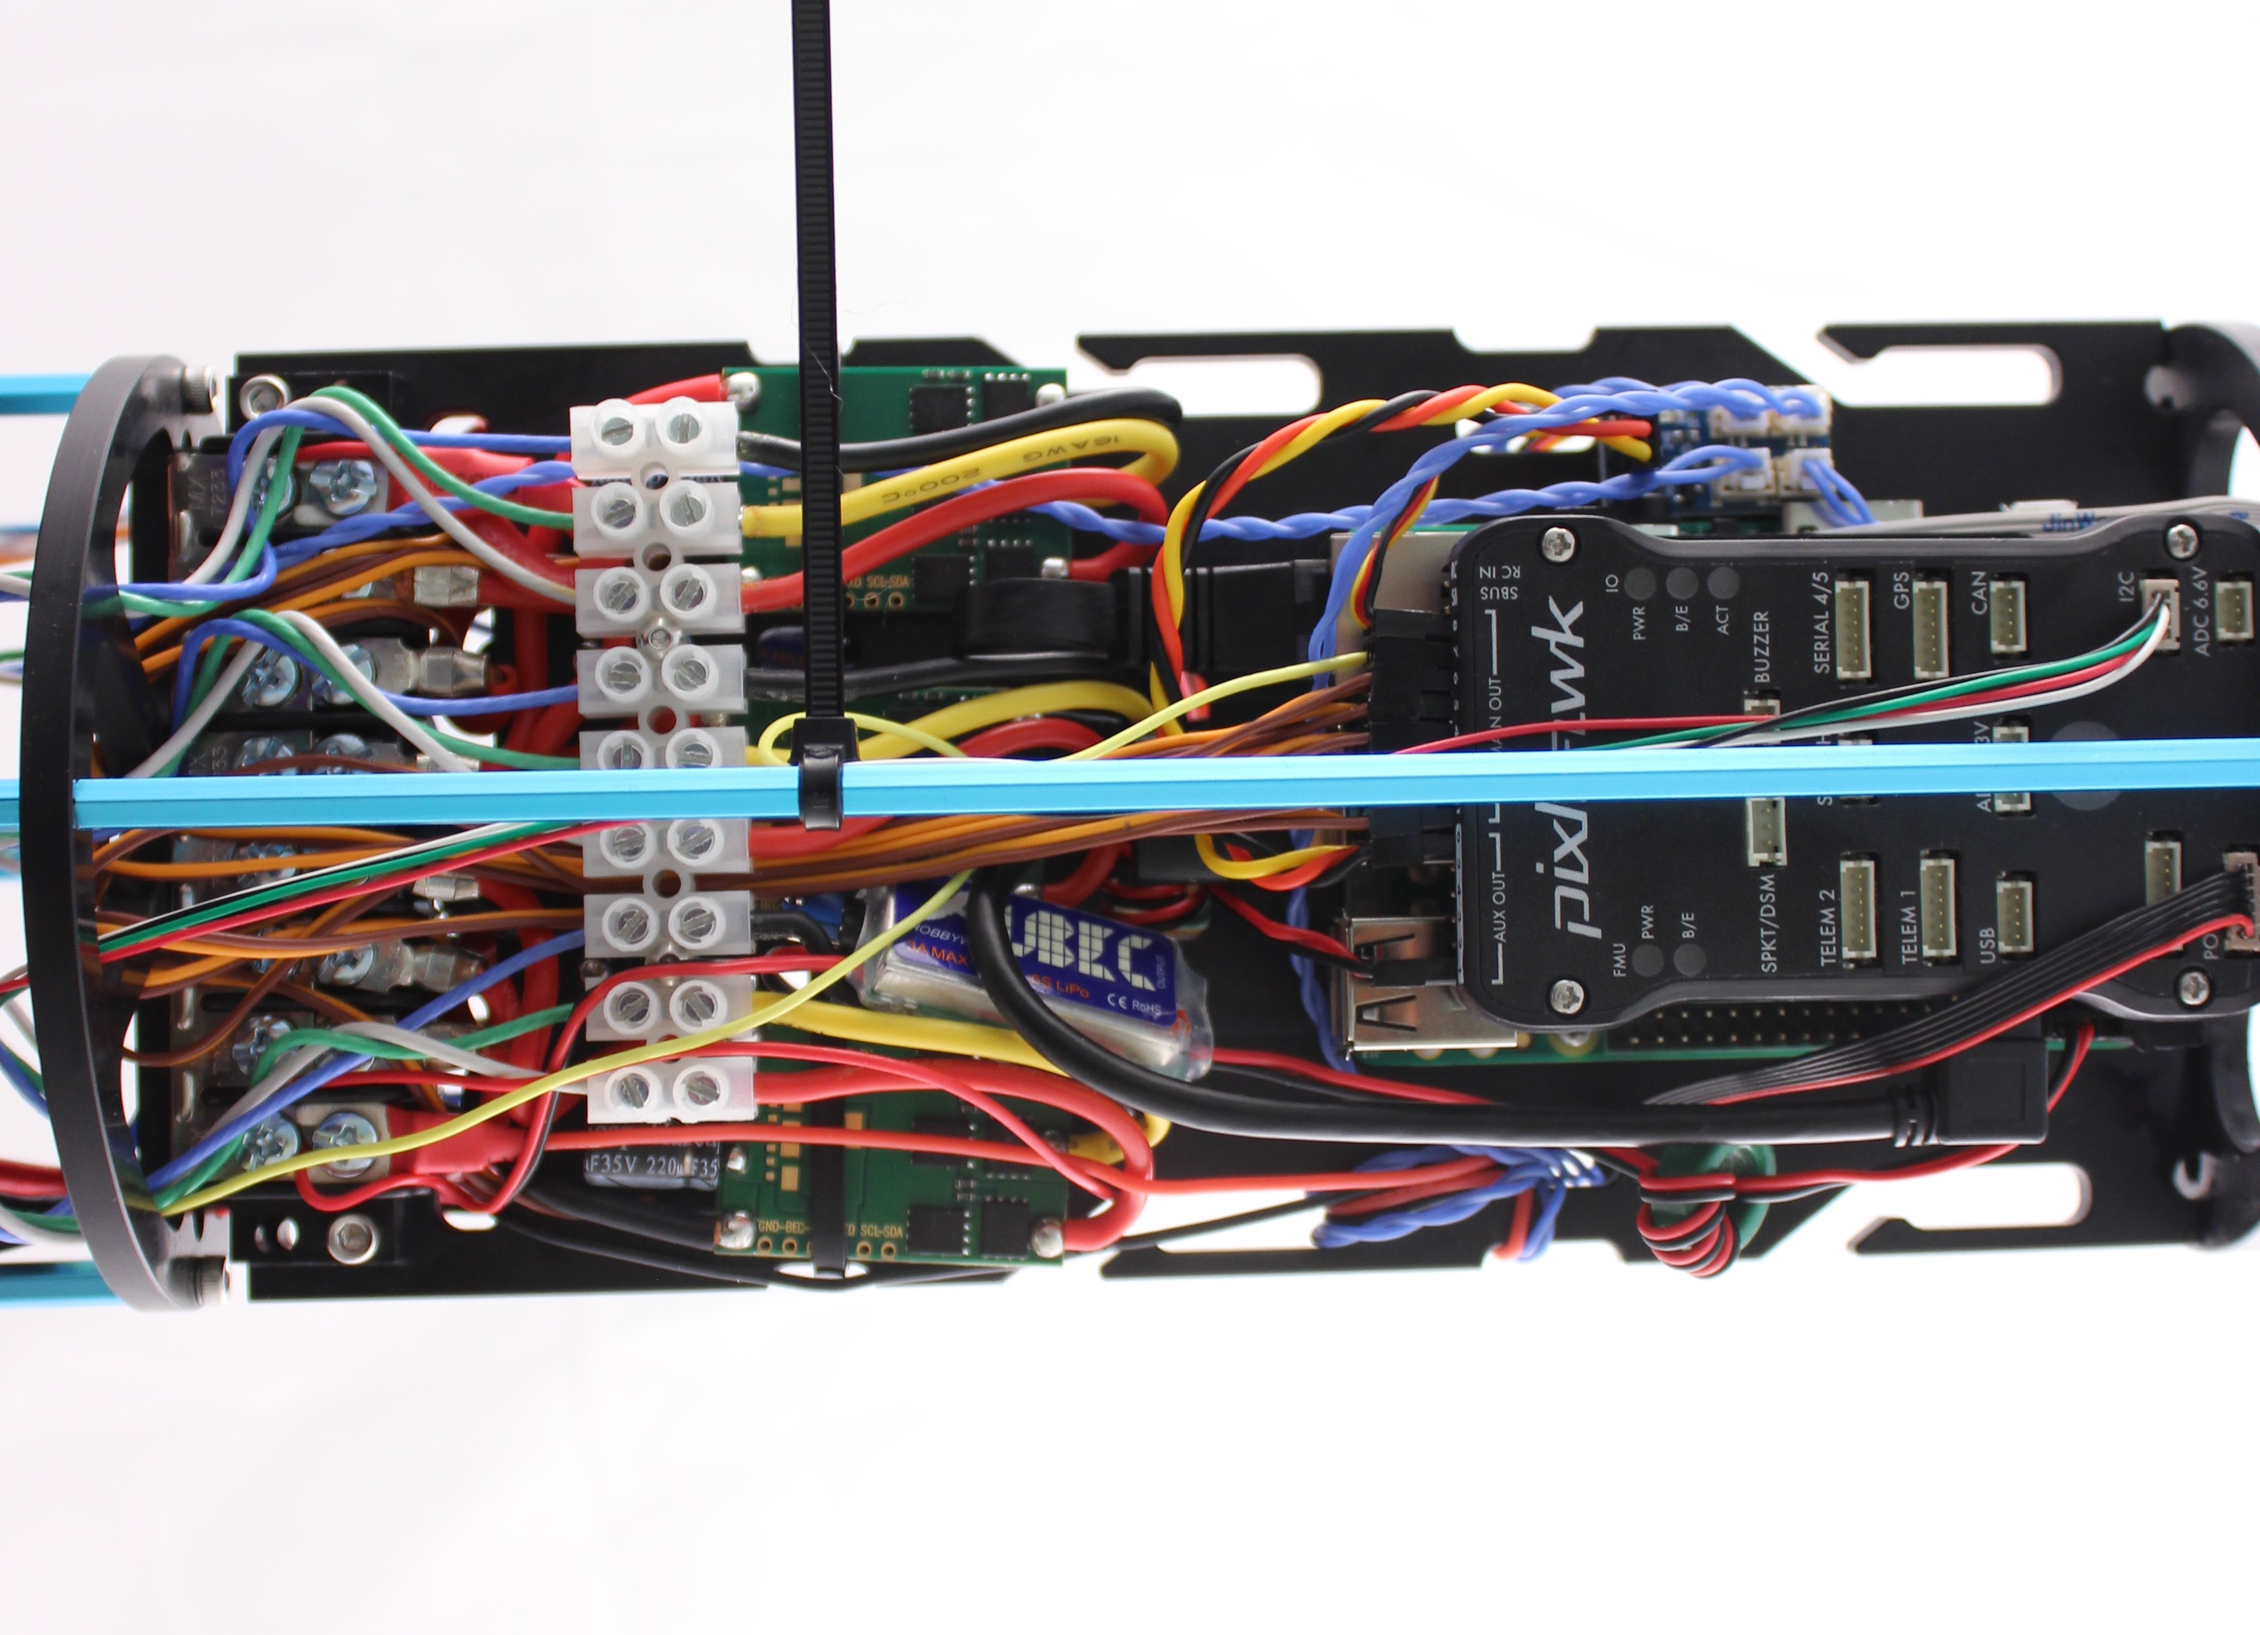
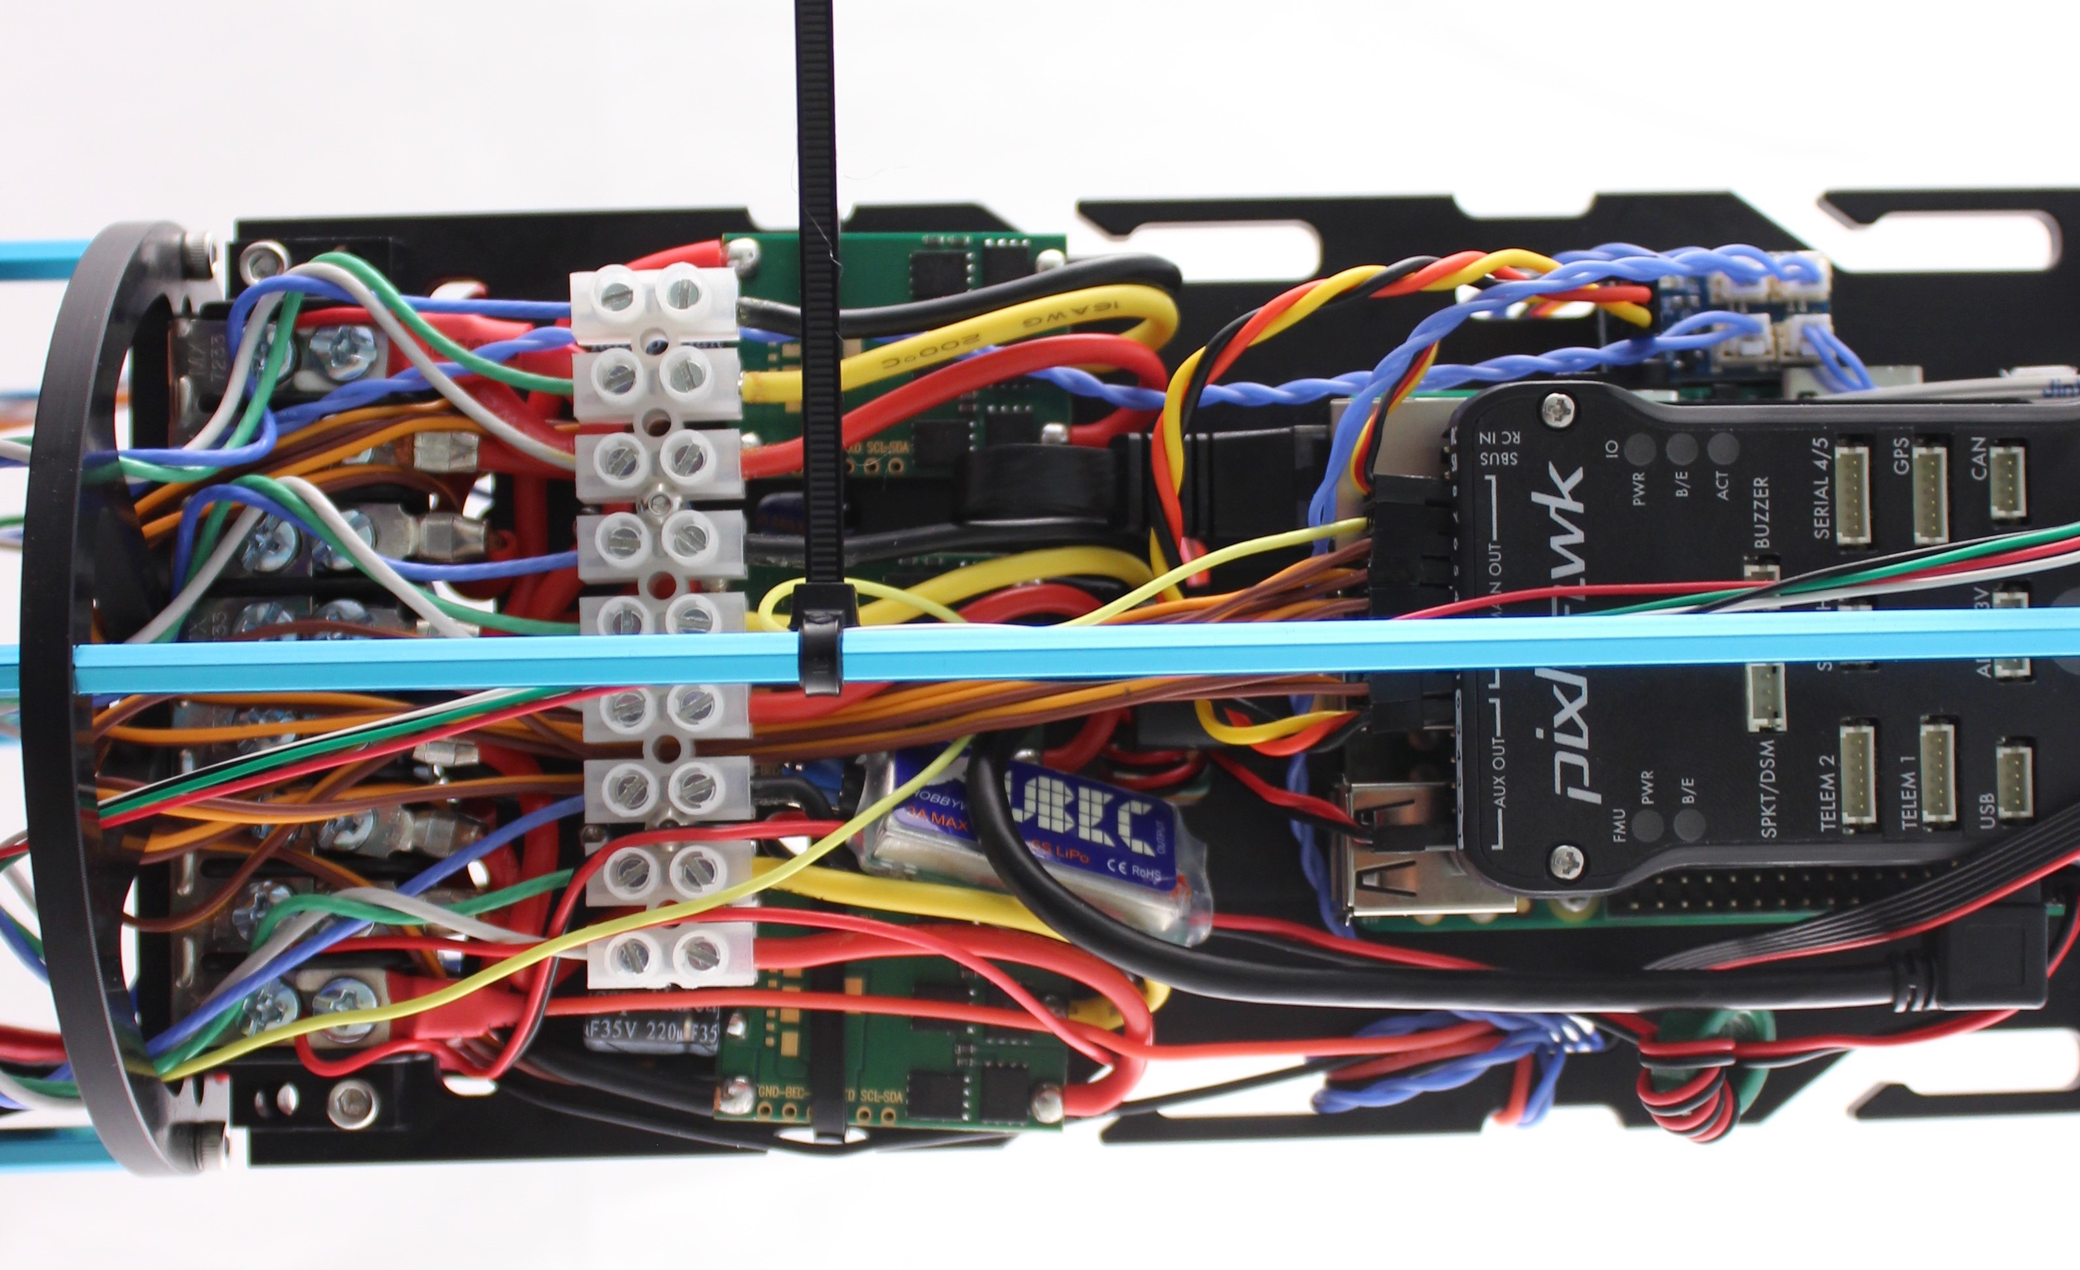
edited some pictures and text for lumen power wires

diff --git a/brov2/assembly.advanced.12.2.16.md b/brov2/assembly.advanced.12.2.16.md
@@ -364,9 +364,9 @@ To reinstall the Aluminum End Cap with 14 Holes you will need the following part
 
 5. Apply one drop of threadlocker to each of the M3x12 screws. Roll the screws around on a paper towel to evenly spread the threadlocker and to remove excess threadlocker.
 	
-6. Install Aluminum End Cap with 14 Holes with all Cable Penetrators and Blank Penetrators installed onto the O-Ring Flange (4" Series). Do not fully tighten any screws when first installing them; it may cause the O-ring to slip out of its groove. The end cap's orientation when installed should match the image below.
+6. Install Aluminum End Cap with 14 Holes with all Cable Penetrators and Blank Penetrators installed onto the O-Ring Flange (4" Series). Do not fully tighten any screws when first installing them; it may cause the O-ring to slip out of its groove. The end cap's orientation when installed should match the image below. Make sure that the clips are oriented correctly. One should be just right of the Thruster 3 penetrator, and the other should be just left of the Thruster 4 penetrator. 
 
-	[picture of the end cap installed that makes it clear where the clips should go]
+	<img src="/brov2/cad/end-cap-installed.png" class="img-responsive" style="max-width:900px" />
 
 ## Finishing the Battery Enclosure
 
@@ -456,13 +456,15 @@ To install the wires from the penetrators you will need the following parts and 
 
 1. Connect the battery power bullet connectors to bullet connectors on XT60 to bullet connector adapter. 
 
-	<img src="/brov2/cad/electronics-enclosure-power-connection-1.png" class="img-responsive" style="max-width:900px" />
+	<img src="/brov2/cad/electronics-enclosure-power-connection-11.png" class="img-responsive" style="max-width:900px" />
 
-2. Connect the Lumen power wires to the power terminal block. 
+2. Connect the Lumen power wire (red) to the Power Terminal Block with the other red wires. Use the rear screw terminal that is second from the bottom. To help keep the cable routing neat, bring the cable through the ESC wires and take out most of the slack.
 	
-	<img src="/brov2/cad/lumen-hot.png" class="img-responsive" style="max-width:900px" />
+	<img src="/brov2/cad/lumen-hot-1.png" class="img-responsive" style="max-width:900px" />
 
-	<img src="/brov2/cad/lumen-ground.png" class="img-responsive" style="max-width:900px" />
+3. Connect the Lumen ground wire (black) to the Power Terminal Block with the other black wires. Use the rear screw terminal that is second from the bottom. To help keep the cable routing neat, bring the cable through the ESC wires and take out most of the slack.
+	
+	<img src="/brov2/cad/lumen-ground-12.png" class="img-responsive" style="max-width:900px" />
 
 ## Installing the Signal Wires from the Penetrators
 	
@@ -499,7 +501,7 @@ To route the cables in the Electronics Enclosure so that they will not snag on t
 
 1. On the starboard side (PixHawk side) collect the Bar30 wires and the Lumen signal wire and zip tie them to the long hex standoff slightly forward of the Motor Terminal Block using one zip tie. Make sure that the locking head of the zip tie and the wires are oriented to the inside of the long hex standoff.
 
-	<img src="/brov2/cad/zip-tie-starboard.png" class="img-responsive" style="max-width:900px" />
+	<img src="/brov2/cad/zip-tie-starboard-1.png" class="img-responsive" style="max-width:900px" />
 
 2. On the port side (Fathom-X Tether Interface Board side) collect the Fathom Tether wires and zip tie them to the long hex standoff approximately even with the back of the Fathom-X Tether Interface Board and approximately even with the Motor Terminal Block. Make sure that the locking heads of the zip ties and the wires are oriented to the inside of the long hex standoff. 
 
